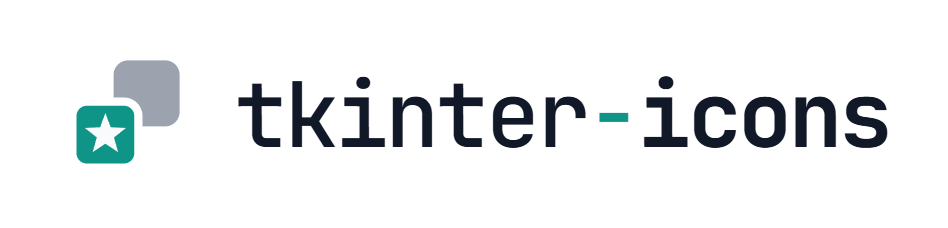
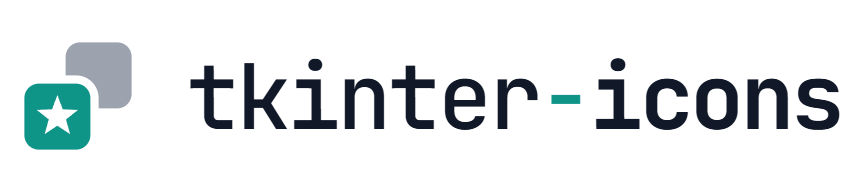
Trace wordmark text to outlines; add monochrome variants
The wordmark SVGs used live <text> in JetBrains Mono. An SVG used as a logo is
loaded as its own image document and cannot see @font-face rules from the page
embedding it, so the navbar logo would have fallen back to whatever local
monospace the reader had, with letter-spacing tuned for a face that was not
there. Outlining also keeps a font binary out of the repository, which matters
while three packs still have an unresolved upstream license gap.

The wordmark PNGs are transparent now rather than carrying a baked background.
That is what lets one <picture> block serve GitHub's light and dark modes and
PyPI, since each variant sits on the reader's own background.

Changed region(s): [[0.0305, 0.2188, 1.0, 0.7812]]

diff --git a/assets/README.md b/assets/README.md
@@ -15,9 +15,17 @@ neither is this one: `docs/assets/` holds documentation screenshots, and
 | `icon-small.svg` | same mark redrawn for small sizes — fuller bleed, chunkier star, so it survives 16px |
 | `logo-compact-{light,dark}.svg` | two stacked squares |
 | `logo-full-{light,dark}.svg` | three stacked squares |
-| `png/icon-{16,32,48,64,128,180,256,512}.png` | rasterised mark, transparent background |
-| `png/wordmark-{light,dark}.png` | mark + wordmark, 948×228 |
+| `wordmark-{light,dark}.svg` | mark + wordmark, teal accent on the hyphen |
+| `wordmark-mono-{light,dark}.svg` | same, single ink — no teal accent |
+| `png/icon-{16,32,48,64,128,180,256,512}.png` | rasterised mark |
+| `png/wordmark-{light,dark}.png` | rasterised wordmark, 852×192 |
 | `png/github-social-1280x640.png` | the repository social card |
+
+The wordmark SVGs carry **outlined text, not `<text>`**. Keep it that way. The
+letterforms are JetBrains Mono, and an SVG used as a logo is loaded as its own
+image document — it cannot see `@font-face` rules from the page embedding it, so
+live text falls back to whatever local monospace the reader happens to have.
+Outlines also keep a font binary out of the repository.
 
 `light` and `dark` name the **background the asset is drawn for**, not the ink:
 `wordmark-light` is dark ink on white, `wordmark-dark` is light ink on navy.
@@ -59,14 +67,16 @@ references. Update here first, then the copy.
 | Package READMEs | absolute `raw.githubusercontent.com` URL | PyPI resolves no relative paths |
 | GitHub social card | uploaded under Settings → General | never a file in the tree |
 
-## Backgrounds are baked into the wordmarks
+## Everything is transparent except the social card
 
-The icon PNGs are transparent. **The wordmark PNGs and the social card are
-not** — they carry an opaque `#FFFFFF` or `#111827` field.
+Only `github-social-1280x640.png` carries an opaque field, which is correct — it
+is a standalone card, not a mark placed on someone else's background.
 
-That is right for a README, where an opaque banner reads as deliberate on any
-page. It is wrong for a docs navbar, where anything but an exact background
-match shows as a visible rectangle. A navbar logo wants a transparent SVG.
+The marks and wordmarks are all transparent, so `light` and `dark` select ink to
+suit the page rather than dragging a background along. That is what a docs
+navbar needs, and it is what makes the `<picture>` pattern below work: each
+variant sits on the reader's actual background instead of a baked slab that only
+matches one of them.
 
 ## Using a wordmark in a README
 
